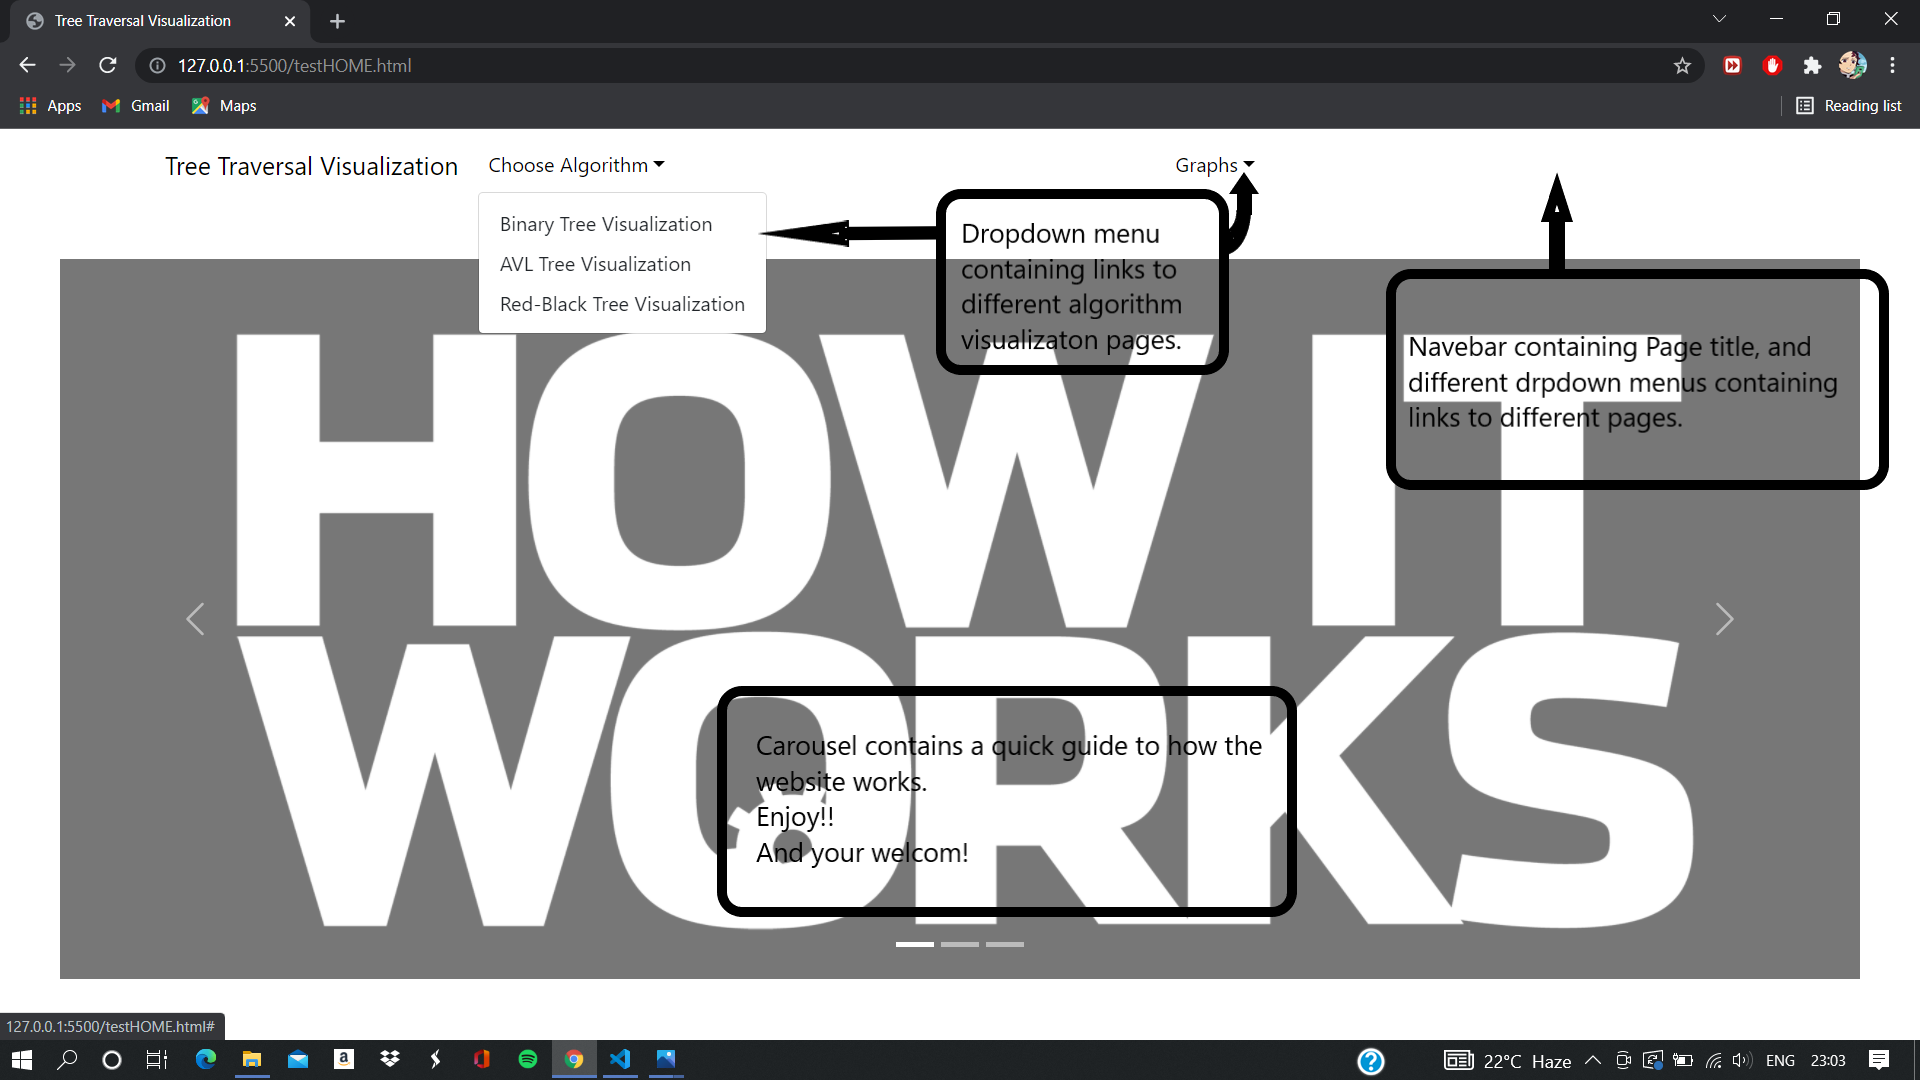
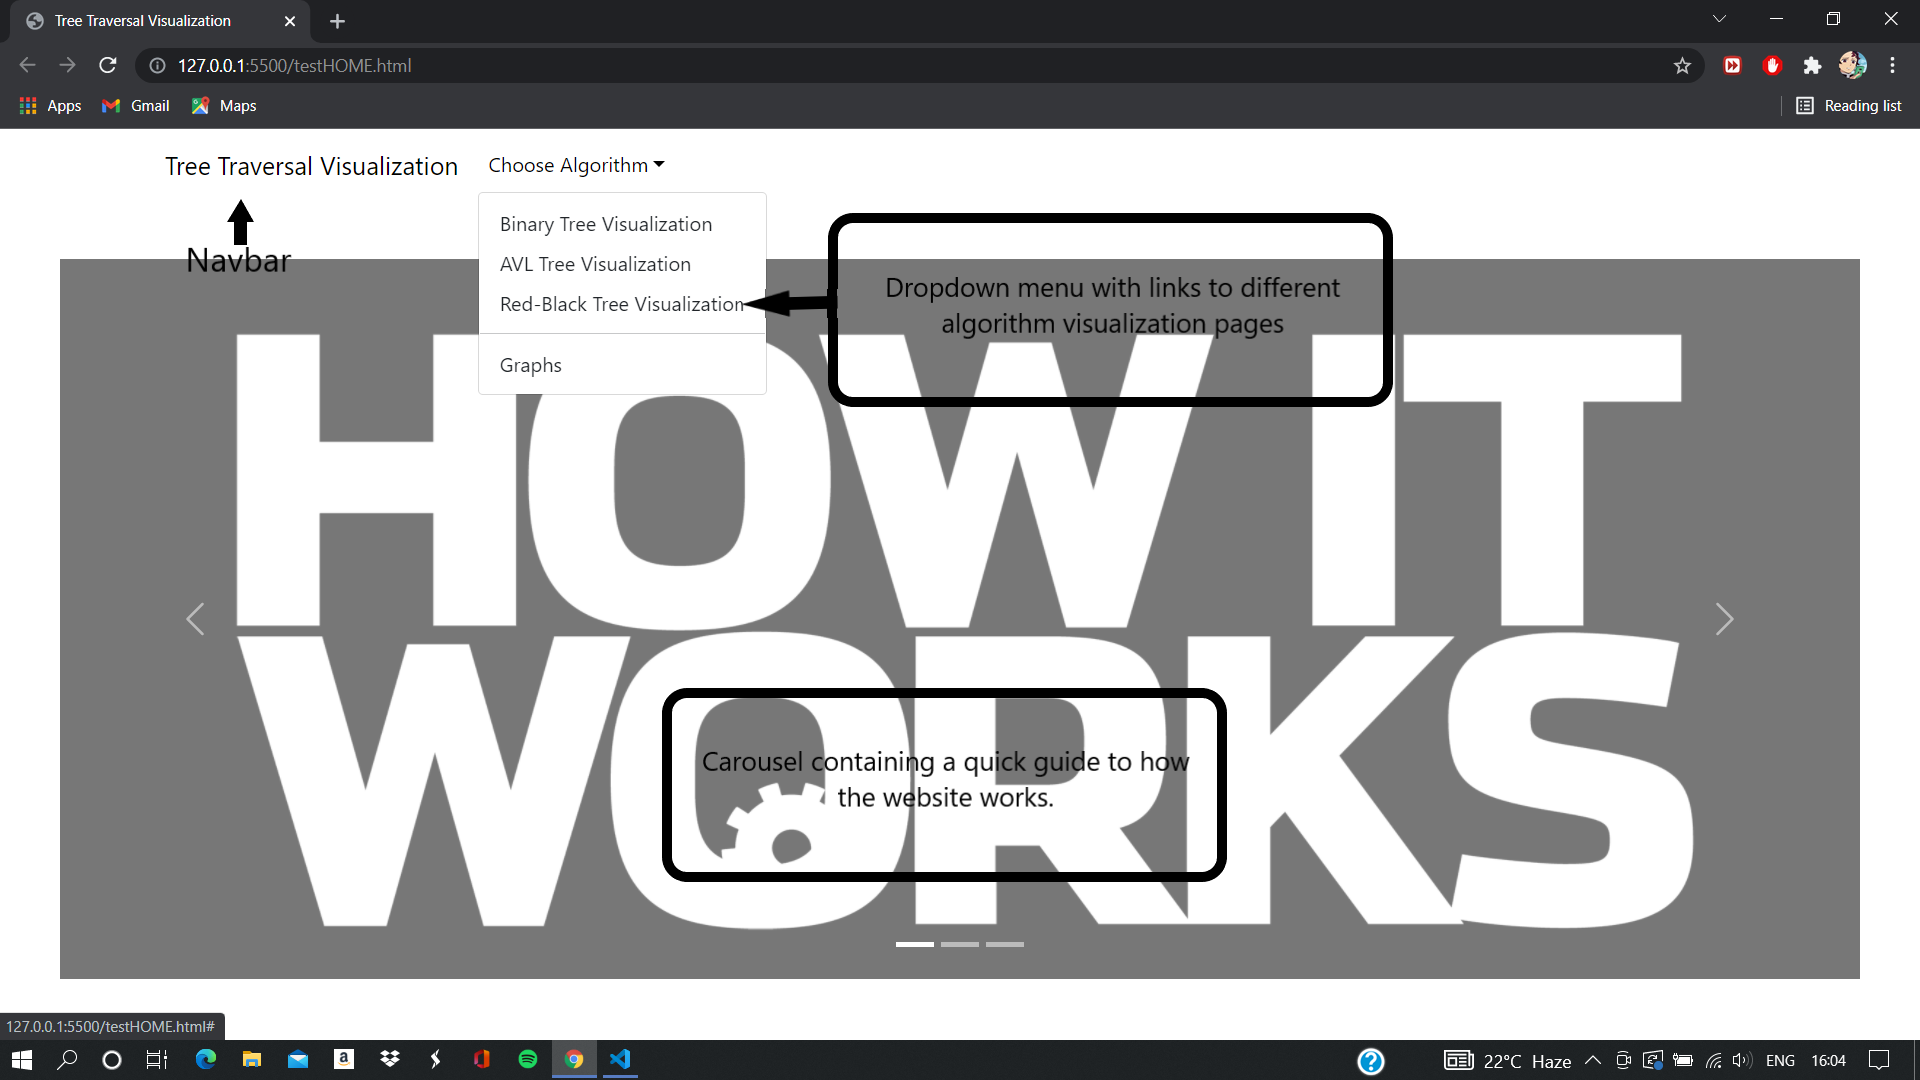
new commit

diff --git a/testHOME.html b/testHOME.html
@@ -36,14 +36,14 @@
         
         .carousel-item {
             height:36rem;
-            background:#777;
+            background:rgb(54, 54, 54);
             color:white;
             position: relative;
             background-position: center;
             background-size: cover;
             padding-top: 20px;
-            padding-left: 100px;
-            padding-right: 100px;
+            padding-left: 120px;
+            padding-right: 120px;
             padding-bottom: 20px;
         }
         
@@ -54,6 +54,7 @@
           <button type="button" data-bs-target="#carouselExampleIndicators" data-bs-slide-to="0" class="active" aria-current="true" aria-label="Slide 1"></button>
           <button type="button" data-bs-target="#carouselExampleIndicators" data-bs-slide-to="1" aria-label="Slide 2"></button>
           <button type="button" data-bs-target="#carouselExampleIndicators" data-bs-slide-to="2" aria-label="Slide 3"></button>
+          <button type="button" data-bs-target="#carouselExampleIndicators" data-bs-slide-to="3" aria-label="Slide 4"></button>
         </div>
         <div class="carousel-inner">
           <div class="carousel-item active">
@@ -64,6 +65,9 @@
           </div>
           <div class="carousel-item">
             <img src="BSTpage.png" class="d-block w-100 h-100" alt="...">
+          </div>
+          <div class="carousel-item">
+            <img src="Graphpage.png" class="d-block w-100 h-100" alt="...">
           </div>
         </div>
         <button class="carousel-control-prev" type="button" data-bs-target="#carouselExampleIndicators" data-bs-slide="prev">
